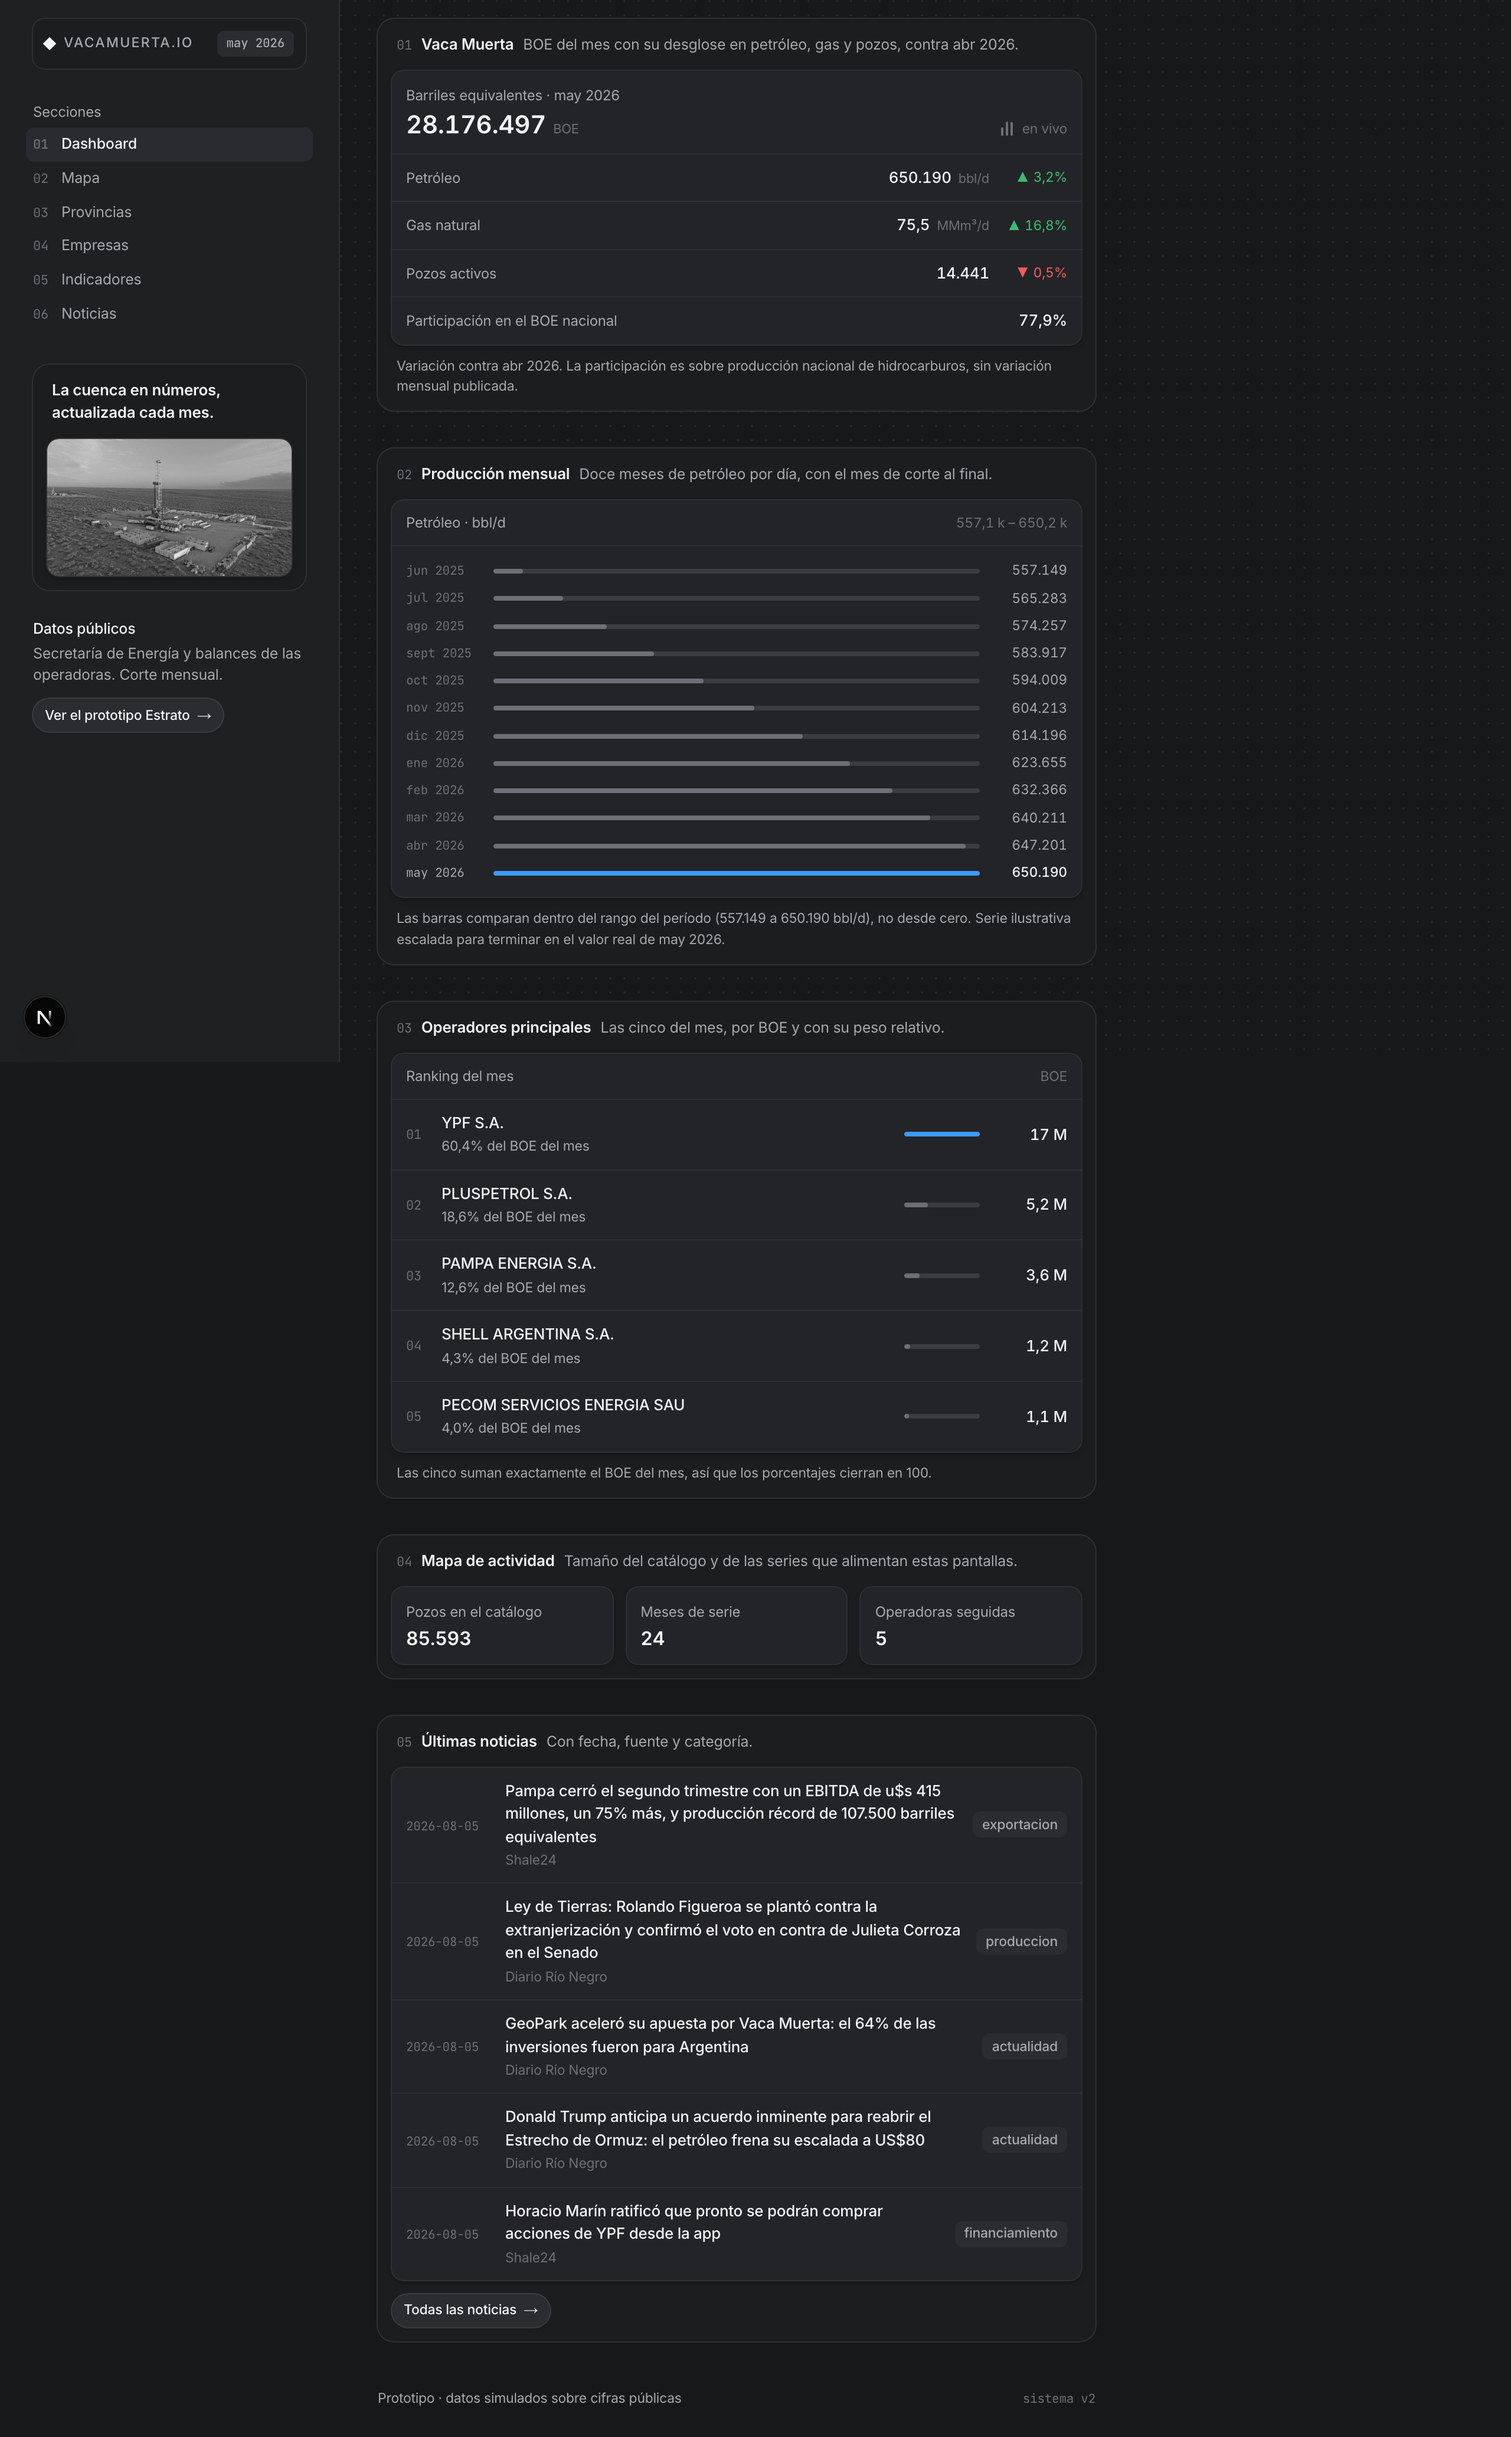
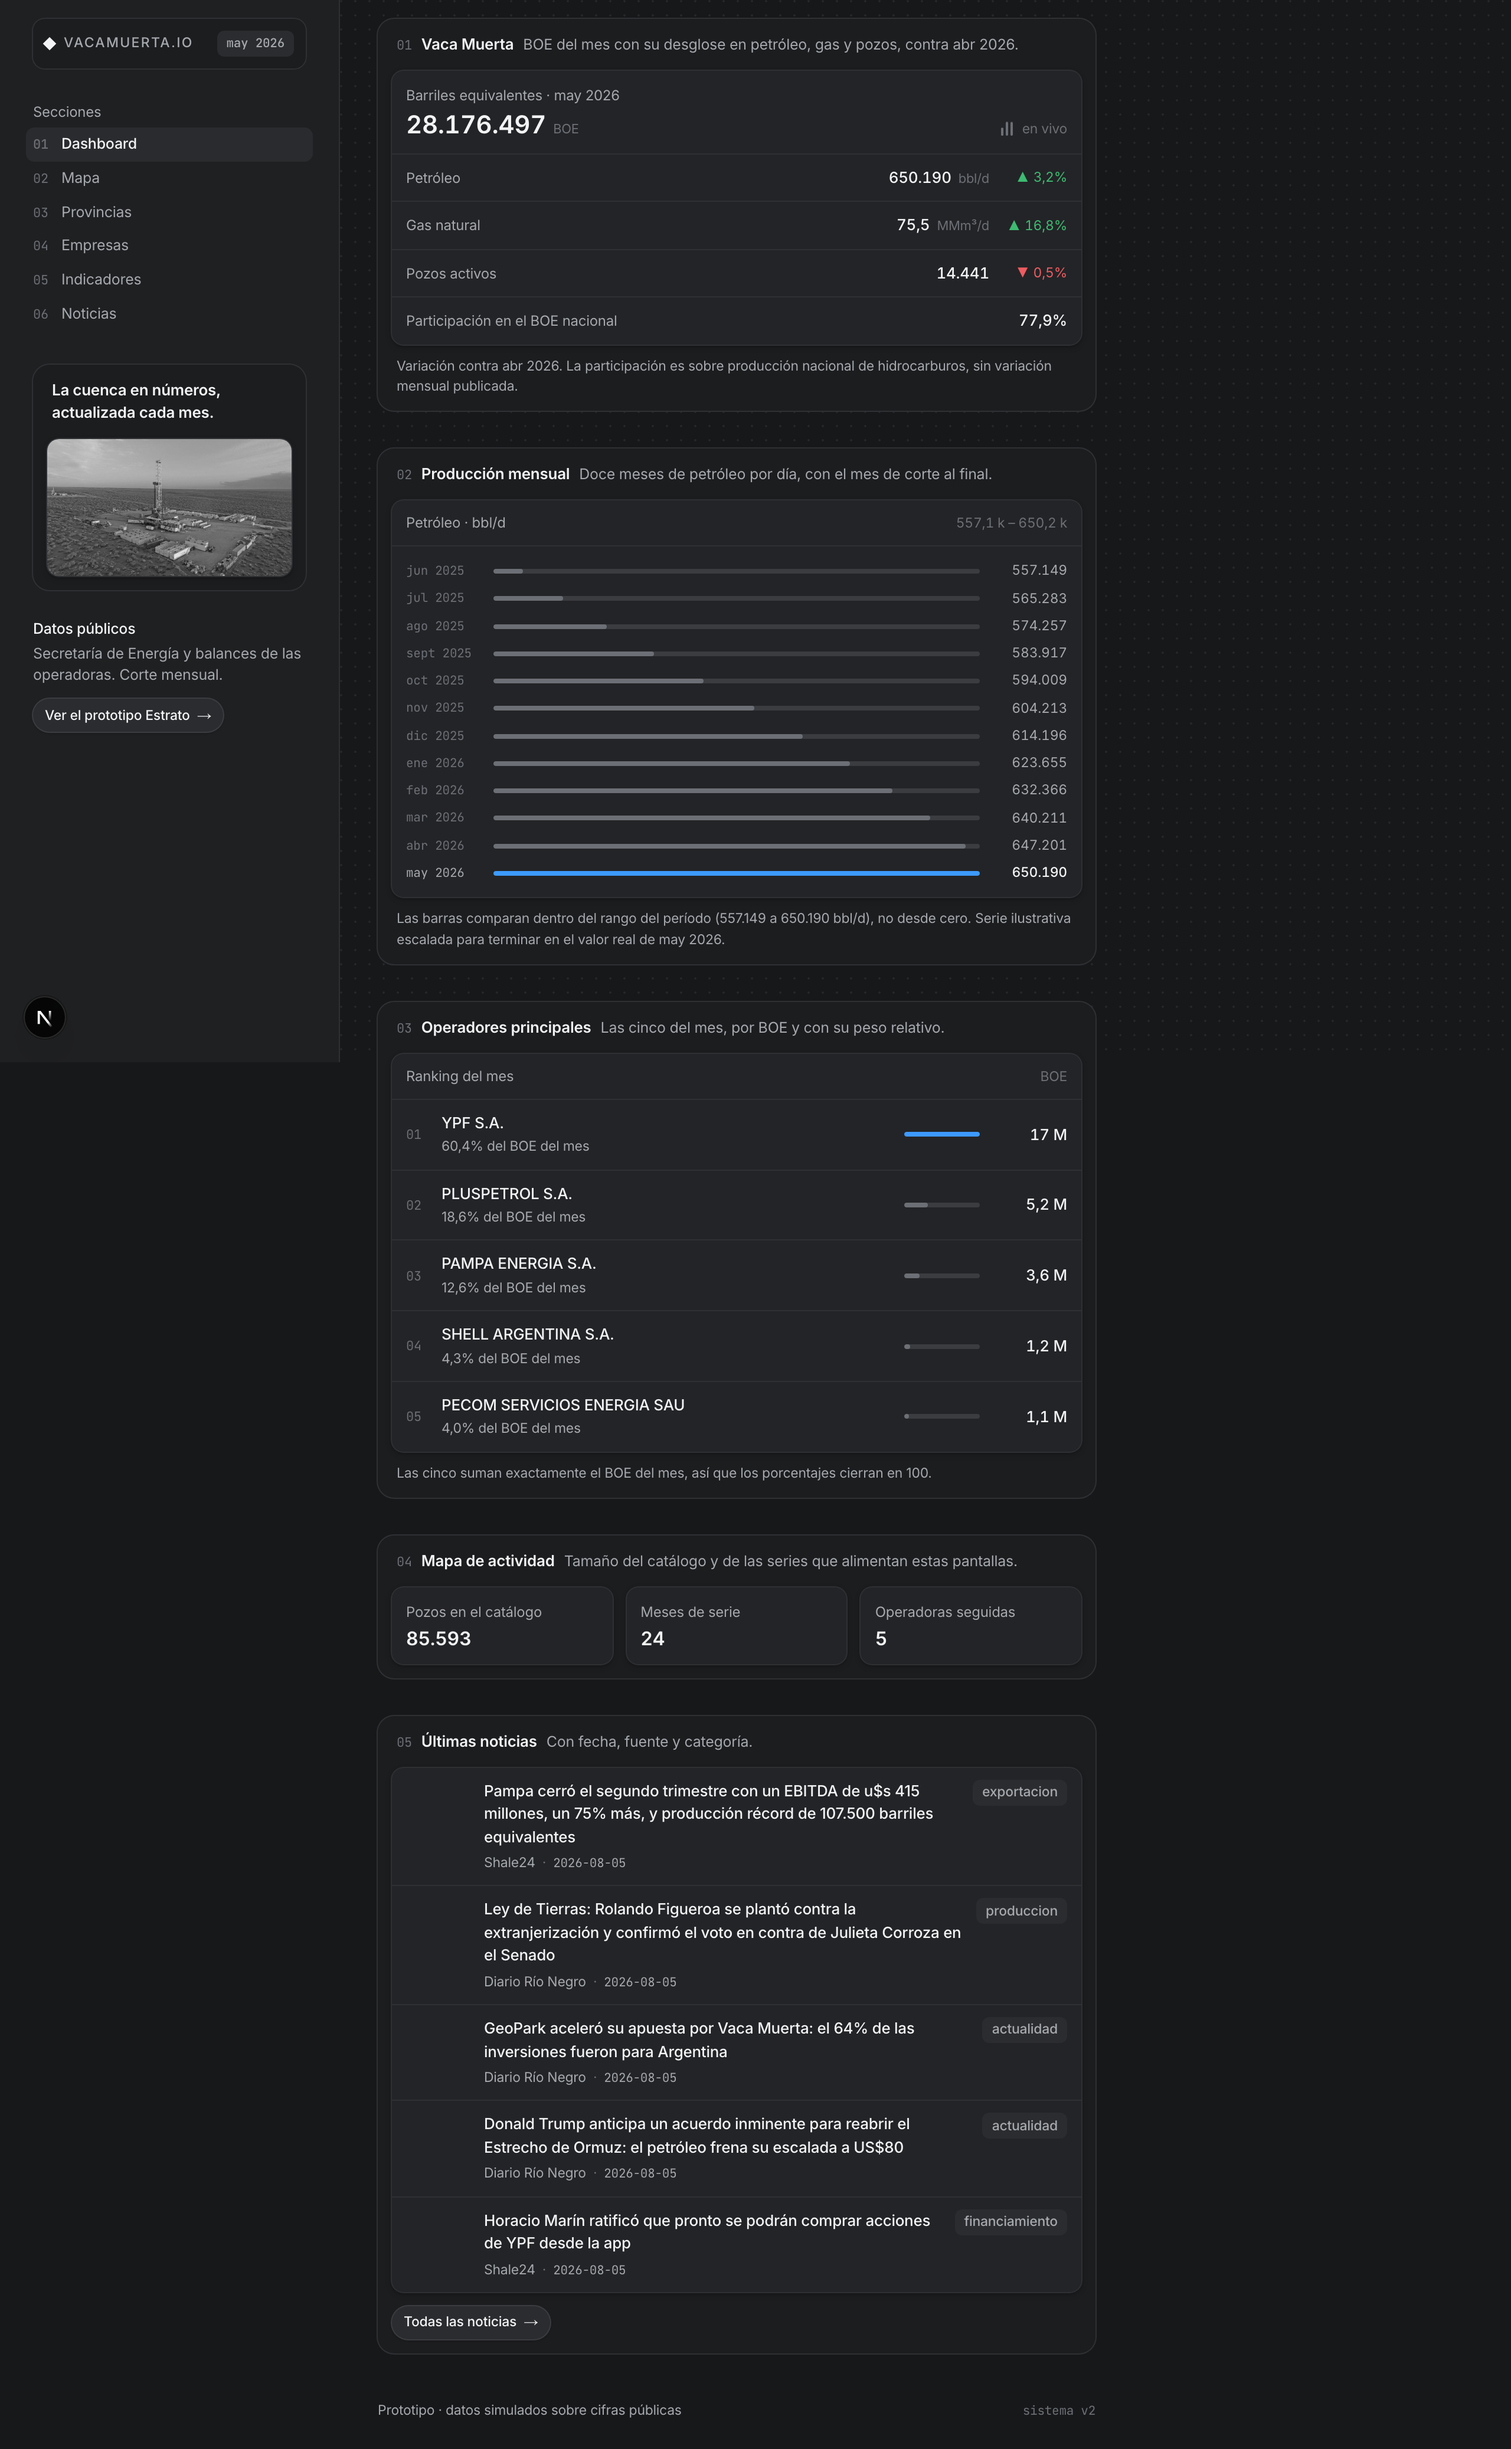
feat(ui-prototype): miniatura en las filas de noticias, la fecha baja a la fuente
La foto ocupa la columna donde iba la fecha y la fecha pasa a la línea de la
fuente: "Shale24 · 2026-08-05 · 4 min". Gana la lista, porque la miniatura
distingue una nota de otra de un vistazo y una fecha repetida no, y la fecha
sigue estando donde uno la busca una vez que ya eligió qué leer.

La fila estaba duplicada en el dashboard y en noticias, así que sale como
componente compartido del kit.

Sólo 1 de las 20 notas trae imagen propia y hay 6 disponibles, así que hay
fallback. La primera versión lo hacía sólo por categoría y salió mal: las
tres categorías genéricas —actualidad, inversión, financiamiento— caían todas
en la misma imagen y once de veinte filas mostraban la misma miniatura, que
es justo lo que la miniatura viene a evitar. Ahora las categorías con una
foto que las representa la usan, y el resto se reparte por una suma
determinista del id de la nota. El máximo repetido baja de 11 a 6 y la misma
nota muestra siempre la misma foto.

Las miniaturas van en blanco y negro lavado, el mismo tratamiento que la card
del índice: veinte fotos a todo color competirían con los datos, que es lo
único que en este sistema tiene permitido llevar color.

Un detalle que salió al verificar: la foto quedaba centrada verticalmente en
vez de arrancar a la altura del título. .s-fila centra por defecto y la clase
de Tailwind tiene la misma especificidad, así que cuál ganaba dependía del
orden del CSS compilado. Va inline. Medido: 0px de desfasaje contra el
[…]

diff --git a/apps/ui-prototype/src/app/v2/_ui/kit.tsx b/apps/ui-prototype/src/app/v2/_ui/kit.tsx
@@ -206,3 +206,121 @@ export function Pie({ children }: { children: ReactNode }) {
     </p>
   )
 }
+
+/* ── Fila de noticia ────────────────────────────────────────────────────
+   La foto ocupa la columna donde antes iba la fecha, y la fecha baja a la
+   línea de la fuente (pedido de Mariano, 2026-08-14). Gana la lista: la
+   miniatura distingue una nota de otra de un vistazo, cosa que una fecha
+   repetida no hace, y la fecha sigue estando donde uno la busca cuando ya
+   eligió qué leer.
+
+   Sólo 1 de las 20 notas trae imagen propia, así que las demás caen a una
+   por categoría. El mapa es determinista: la misma nota muestra siempre la
+   misma foto, y no una al azar en cada visita.
+
+   Van en blanco y negro lavado, el mismo tratamiento que la card del
+   índice: veinte miniaturas a todo color competirían con los datos, que es
+   lo único que en este sistema tiene permitido llevar color. */
+
+const FOTOS = [
+  'news-produccion-rig',
+  'news-regulacion-pumpjacks',
+  'news-gnl-buque',
+  'news-infraestructura-oleoducto',
+  'news-empresas-refineria',
+  'news-mercado-noche',
+]
+
+/** Categorías que tienen una foto que las representa de verdad. */
+const FOTO_POR_CATEGORIA: Record<string, string> = {
+  produccion: 'news-produccion-rig',
+  regulacion: 'news-regulacion-pumpjacks',
+  exportacion: 'news-gnl-buque',
+  rigi: 'news-infraestructura-oleoducto',
+  laboral: 'news-empresas-refineria',
+}
+
+/** Suma determinista del id: la misma nota muestra siempre la misma foto. */
+function reparte(id: string): string {
+  let h = 0
+  for (let i = 0; i < id.length; i++) h = (h * 31 + id.charCodeAt(i)) >>> 0
+  return FOTOS[h % FOTOS.length]
+}
+
+/** Foto de una nota: la propia, si no la de su categoría, si no una
+    repartida por id. Sin este último paso, las tres categorías genéricas
+    —actualidad, inversión, financiamiento— caían todas en la misma imagen y
+    once de veinte filas mostraban la misma miniatura, que es justo lo que la
+    miniatura viene a evitar. */
+function fotoDe(id: string, categoria: string, propia?: string): string {
+  return propia ?? `/images/news/${FOTO_POR_CATEGORIA[categoria] ?? reparte(id)}.jpg`
+}
+
+export function FilaNoticia({
+  id,
+  href,
+  titulo,
+  resumen,
+  fuente,
+  fecha,
+  categoria,
+  minutos,
+  imagen,
+}: {
+  id: string
+  href: string
+  titulo: string
+  resumen?: string
+  fuente: string
+  /** ISO; se muestra recortada a la fecha */
+  fecha: string
+  categoria: string
+  minutos?: number
+  /** imagen propia de la nota; si falta, cae a la de su categoría */
+  imagen?: string
+}) {
+  const src = fotoDe(id, categoria, imagen)
+  return (
+    /* alignItems inline: .s-fila centra por defecto y la clase de Tailwind
+       tiene la misma especificidad, así que cuál gana depende del orden del
+       CSS compilado. La foto tiene que arrancar a la altura del título. */
+    <a
+      href={href}
+      className="s-fila s-fila-hover no-underline"
+      style={{ color: 'inherit', alignItems: 'flex-start' }}
+    >
+      <img
+        src={src}
+        alt=""
+        width={640}
+        height={640}
+        loading="lazy"
+        decoding="async"
+        className="shrink-0"
+        style={{
+          width: 56,
+          height: 56,
+          objectFit: 'cover',
+          borderRadius: 'var(--radius-control)',
+          filter: 'grayscale(1) contrast(0.9)',
+        }}
+      />
+      <span className="min-w-0 flex-1">
+        <span className="s-cuerpo block font-medium">{titulo}</span>
+        {resumen && <span className="s-desc mt-0.5 block">{resumen}</span>}
+        <span className="s-micro mt-1 flex flex-wrap items-center gap-x-1.5" style={{ color: 'var(--ink-2)' }}>
+          {fuente}
+          <span style={{ color: 'var(--ink-3)' }}>·</span>
+          <span className="s-mono text-[10.5px]">{fecha.slice(0, 10)}</span>
+          {minutos ? (
+            <>
+              <span style={{ color: 'var(--ink-3)' }}>·</span>
+              <span>{minutos} min</span>
+            </>
+          ) : null}
+        </span>
+      </span>
+      <Chip>{categoria}</Chip>
+    </a>
+  )
+}

diff --git a/apps/ui-prototype/src/app/v2/noticias/page.tsx b/apps/ui-prototype/src/app/v2/noticias/page.tsx
@@ -1,5 +1,5 @@
 import Link from 'next/link'
-import { Seccion, Card, CardHead, Chip, Pie } from '../_ui/kit'
+import { Seccion, Card, CardHead, Pie, FilaNoticia } from '../_ui/kit'
 import { NEWS } from '@/fixtures/news'
 
 /* NOTICIAS — el caso donde más se aparta de lo que teníamos.
@@ -47,31 +47,18 @@ export default function V2Noticias() {
         <Card>
           <CardHead titulo="Últimas primero" nota={`${orden.length} notas`} />
           {orden.map((n) => (
-            <Link
+            <FilaNoticia
               key={n.id}
+              id={n.id}
               href={`/noticias/${n.id}`}
-              className="s-fila s-fila-hover items-start no-underline"
-              style={{ color: 'inherit' }}
-            >
-              <span
-                className="s-mono w-[74px] shrink-0 pt-0.5 text-[10.5px]"
-                style={{ color: 'var(--ink-3)' }}
-              >
-                {n.date.slice(0, 10)}
-              </span>
-              <span className="min-w-0 flex-1">
-                <span className="s-cuerpo block font-medium">{n.title}</span>
-                <span className="s-desc mt-0.5 block">{n.summary}</span>
-                <span
-                  className="s-micro mt-1 block"
-                  style={{ color: 'var(--ink-2)' }}
-                >
-                  {n.source}
-                  {n.readingMin ? ` · ${n.readingMin} min` : ''}
-                </span>
-              </span>
-              <Chip>{n.category}</Chip>
-            </Link>
+              titulo={n.title}
+              resumen={n.summary}
+              fuente={n.source}
+              fecha={n.date}
+              categoria={n.category}
+              minutos={n.readingMin}
+              imagen={n.image}
+            />
           ))}
         </Card>
         <Pie>

diff --git a/apps/ui-prototype/src/app/v2/page.tsx b/apps/ui-prototype/src/app/v2/page.tsx
@@ -1,5 +1,5 @@
 import Link from 'next/link'
-import { Seccion, Dato, FilaDato, FilaRanking, Card, CardHead, Pie, Chip } from './_ui/kit'
+import { Seccion, Dato, FilaDato, FilaRanking, Card, CardHead, Pie, FilaNoticia } from './_ui/kit'
 import { Pulso } from './_ui/Pulso'
 import { HEADLINE, PREV, NATIONAL_SERIES } from '@/fixtures/production'
 import { TOP_OPERATORS } from '@/fixtures/operators'
@@ -188,23 +188,16 @@ export default function V2Inicio() {
       >
         <Card>
           {ultimas.map((n) => (
-            <Link
+            <FilaNoticia
               key={n.id}
+              id={n.id}
               href={`/noticias/${n.id}`}
-              className="s-fila s-fila-hover items-start no-underline"
-              style={{ color: 'inherit' }}
-            >
-              <span className="s-mono w-[74px] shrink-0 pt-0.5 text-[10.5px]" style={{ color: 'var(--ink-3)' }}>
-                {n.date.slice(0, 10)}
-              </span>
-              <span className="min-w-0 flex-1">
-                <span className="s-cuerpo block font-medium">{n.title}</span>
-                <span className="s-micro mt-0.5 flex items-center gap-2" style={{ color: 'var(--ink-3)' }}>
-                  {n.source}
-                </span>
-              </span>
-              <Chip>{n.category}</Chip>
-            </Link>
+              titulo={n.title}
+              fuente={n.source}
+              fecha={n.date}
+              categoria={n.category}
+              imagen={n.image}
+            />
           ))}
         </Card>
         <div className="mt-3">
